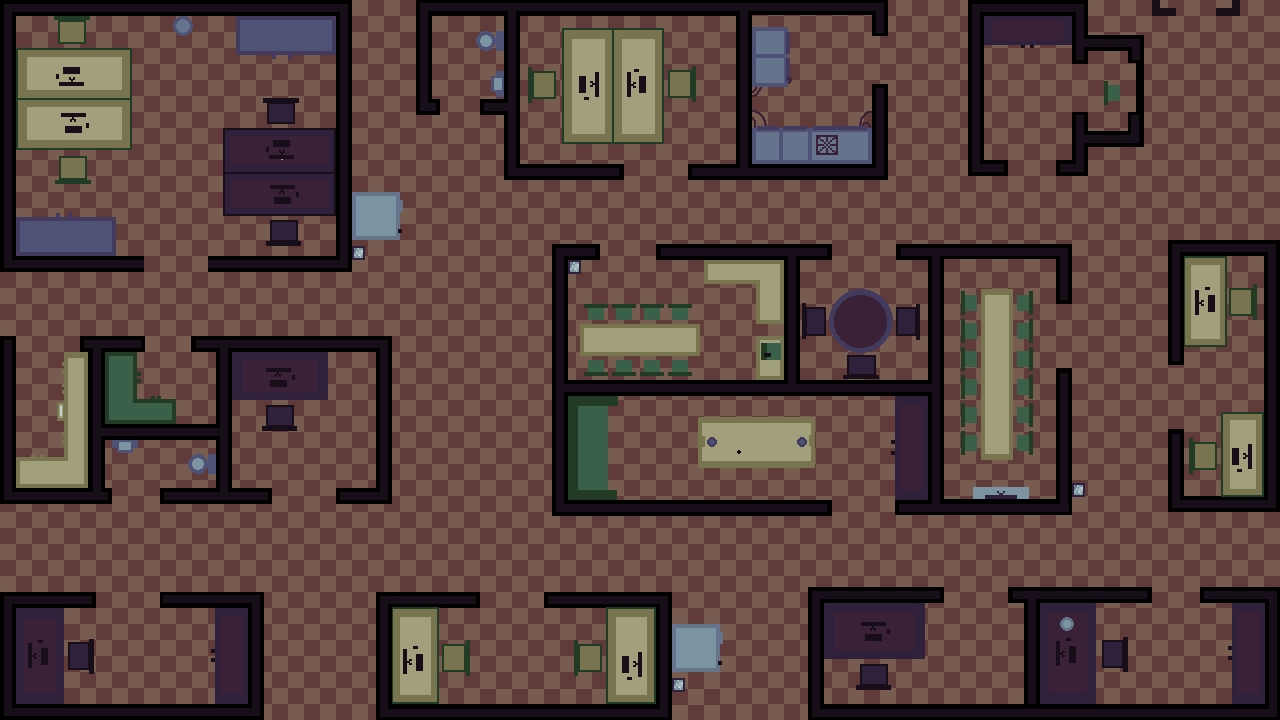
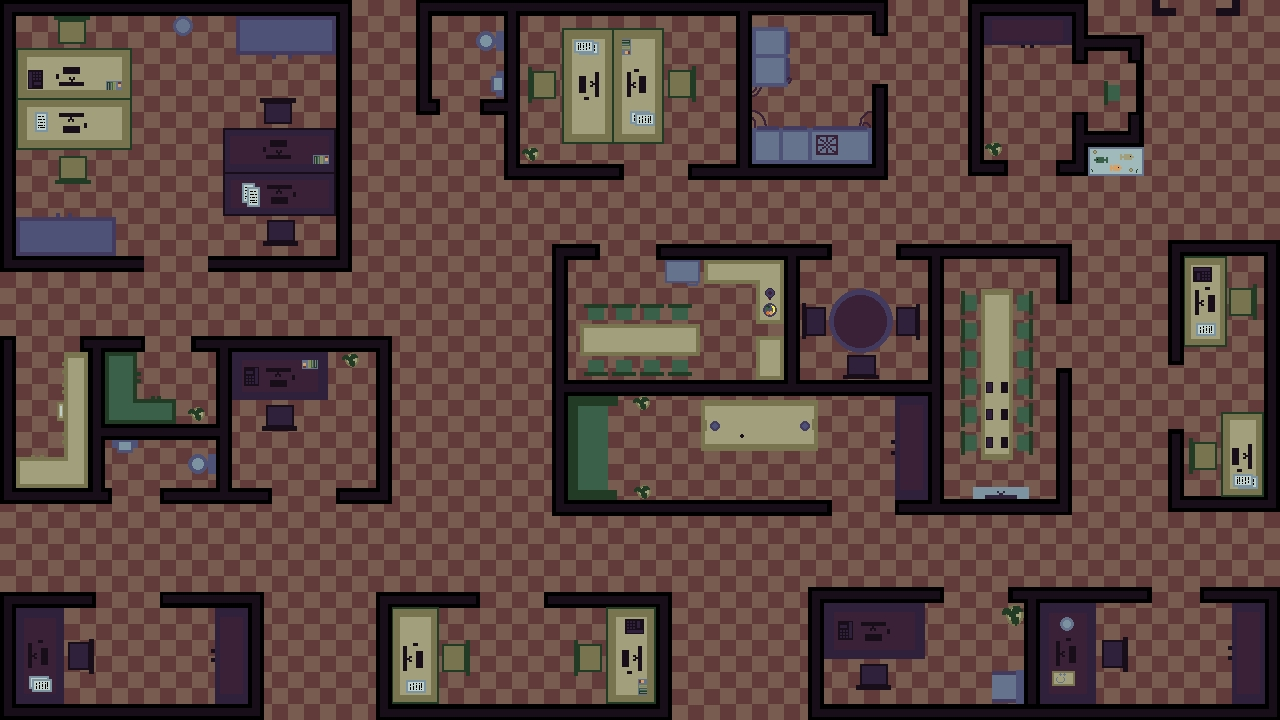
add items

diff --git a/core/src/main/java/com/officescape/GameConstants.java b/core/src/main/java/com/officescape/GameConstants.java
@@ -39,6 +39,11 @@ public class GameConstants {
     public static final String COLLEAGUE_FILE_PATH = "player_skin/clerk_idle.png";
     public static final String ITSHNIK_FILE_PATH = "player_skin/it_idle.png";
 
+    //reactions
+    public static final String REACTION_ATTENTION_FILE_PATH = "player_skin/reaction_attention.png";
+    public static final String REACTION_SLEEP_FILE_PATH = "player_skin/reaction_sleep.png";
+    public static final String REACTION_STARS_FILE_PATH = "player_skin/reaction_stars.png";
+
     // NPC params
     public static final float NPC_DETECTION_RANGE = 200f;
     public static final float NPC_FOV_ANGLE = 90f;
@@ -84,8 +89,21 @@ public class GameConstants {
     public static final float ITEM_HIGHLIGHT_RANGE = 100f;
 
     // Items textures
-    public static final String STEPLER_FILE_PATH = "items/stepler.png";
-    public static final String KEY_FILE_PATH = "items/key.png";
+    public static final String STEPLER_FILE_PATH = "items/stapler.png";
+    public static final String KEY_CARD_FILE_PATH = "items/key_card.png";
+    public static final String FLASH_FILE_PATH = "items/flash.png";
+    public static final String CAMERA_GRAY_FILE_PATH = "items/camera_gray.png";
+    public static final String CAMERA_RED_FILE_PATH = "items/camera_red.png";
+    public static final String COFFEE_FILE_PATH = "items/coffee.png";
+    public static final String TURNSTILE_FILE_PATH = "items/turnstile.png";
+    public static final String FISH_FILE_PATH = "items/fish.png";
+    public static final String WARDROBE_FILE_PATH = "items/wardrobe.png";
+    public static final String COFFEE_MACHINE_FILE_PATH = "items/coffee_machine.png";
+    public static final String CRASHED_COFFEE_MACHINE_FILE_PATH = "items/crashed_coffee_machine.png";
+    public static final String PRINTER_FILE_PATH = "items/printer.png";
+    public static final String CRASHED_PRINTER_FILE_PATH = "items/crashed_printer.png";
+    public static final String TRASH_FILE_PATH = "items/trash.png";
+    public static final String FIRE_TRASH_FILE_PATH = "items/fire_trash.png";
 
     // Items scales
     public static final float STEPLER_SCALE = 0.05f;
